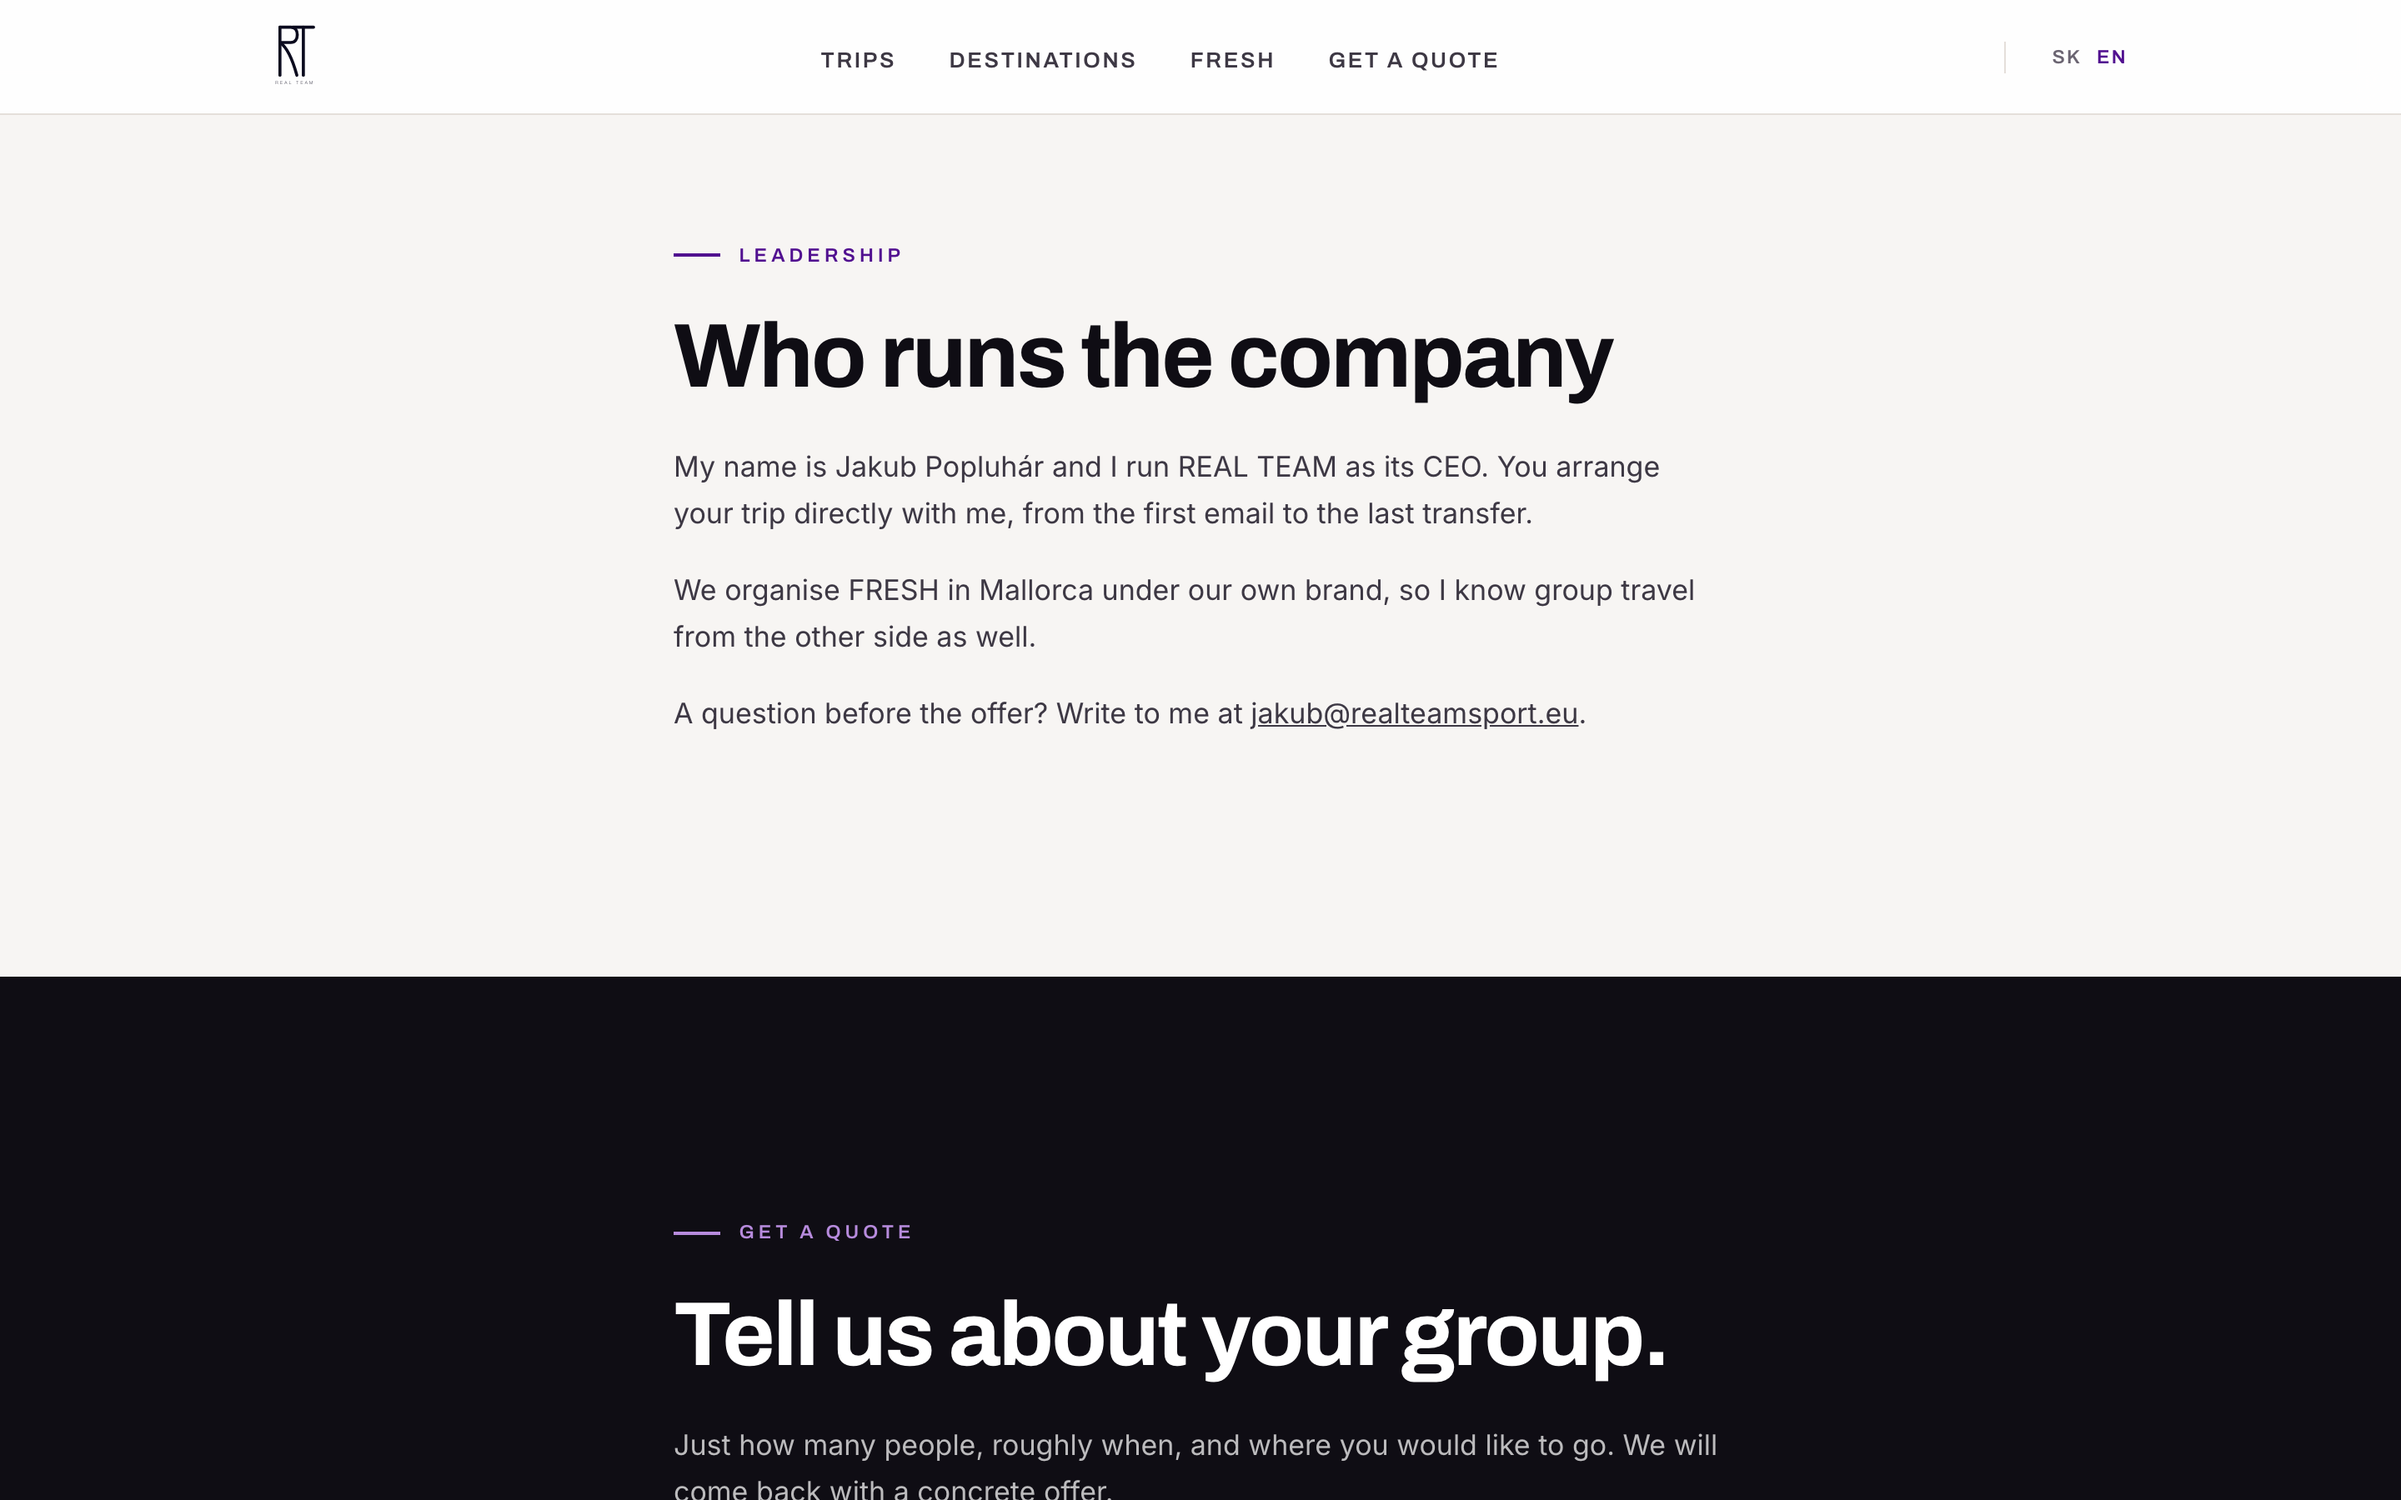
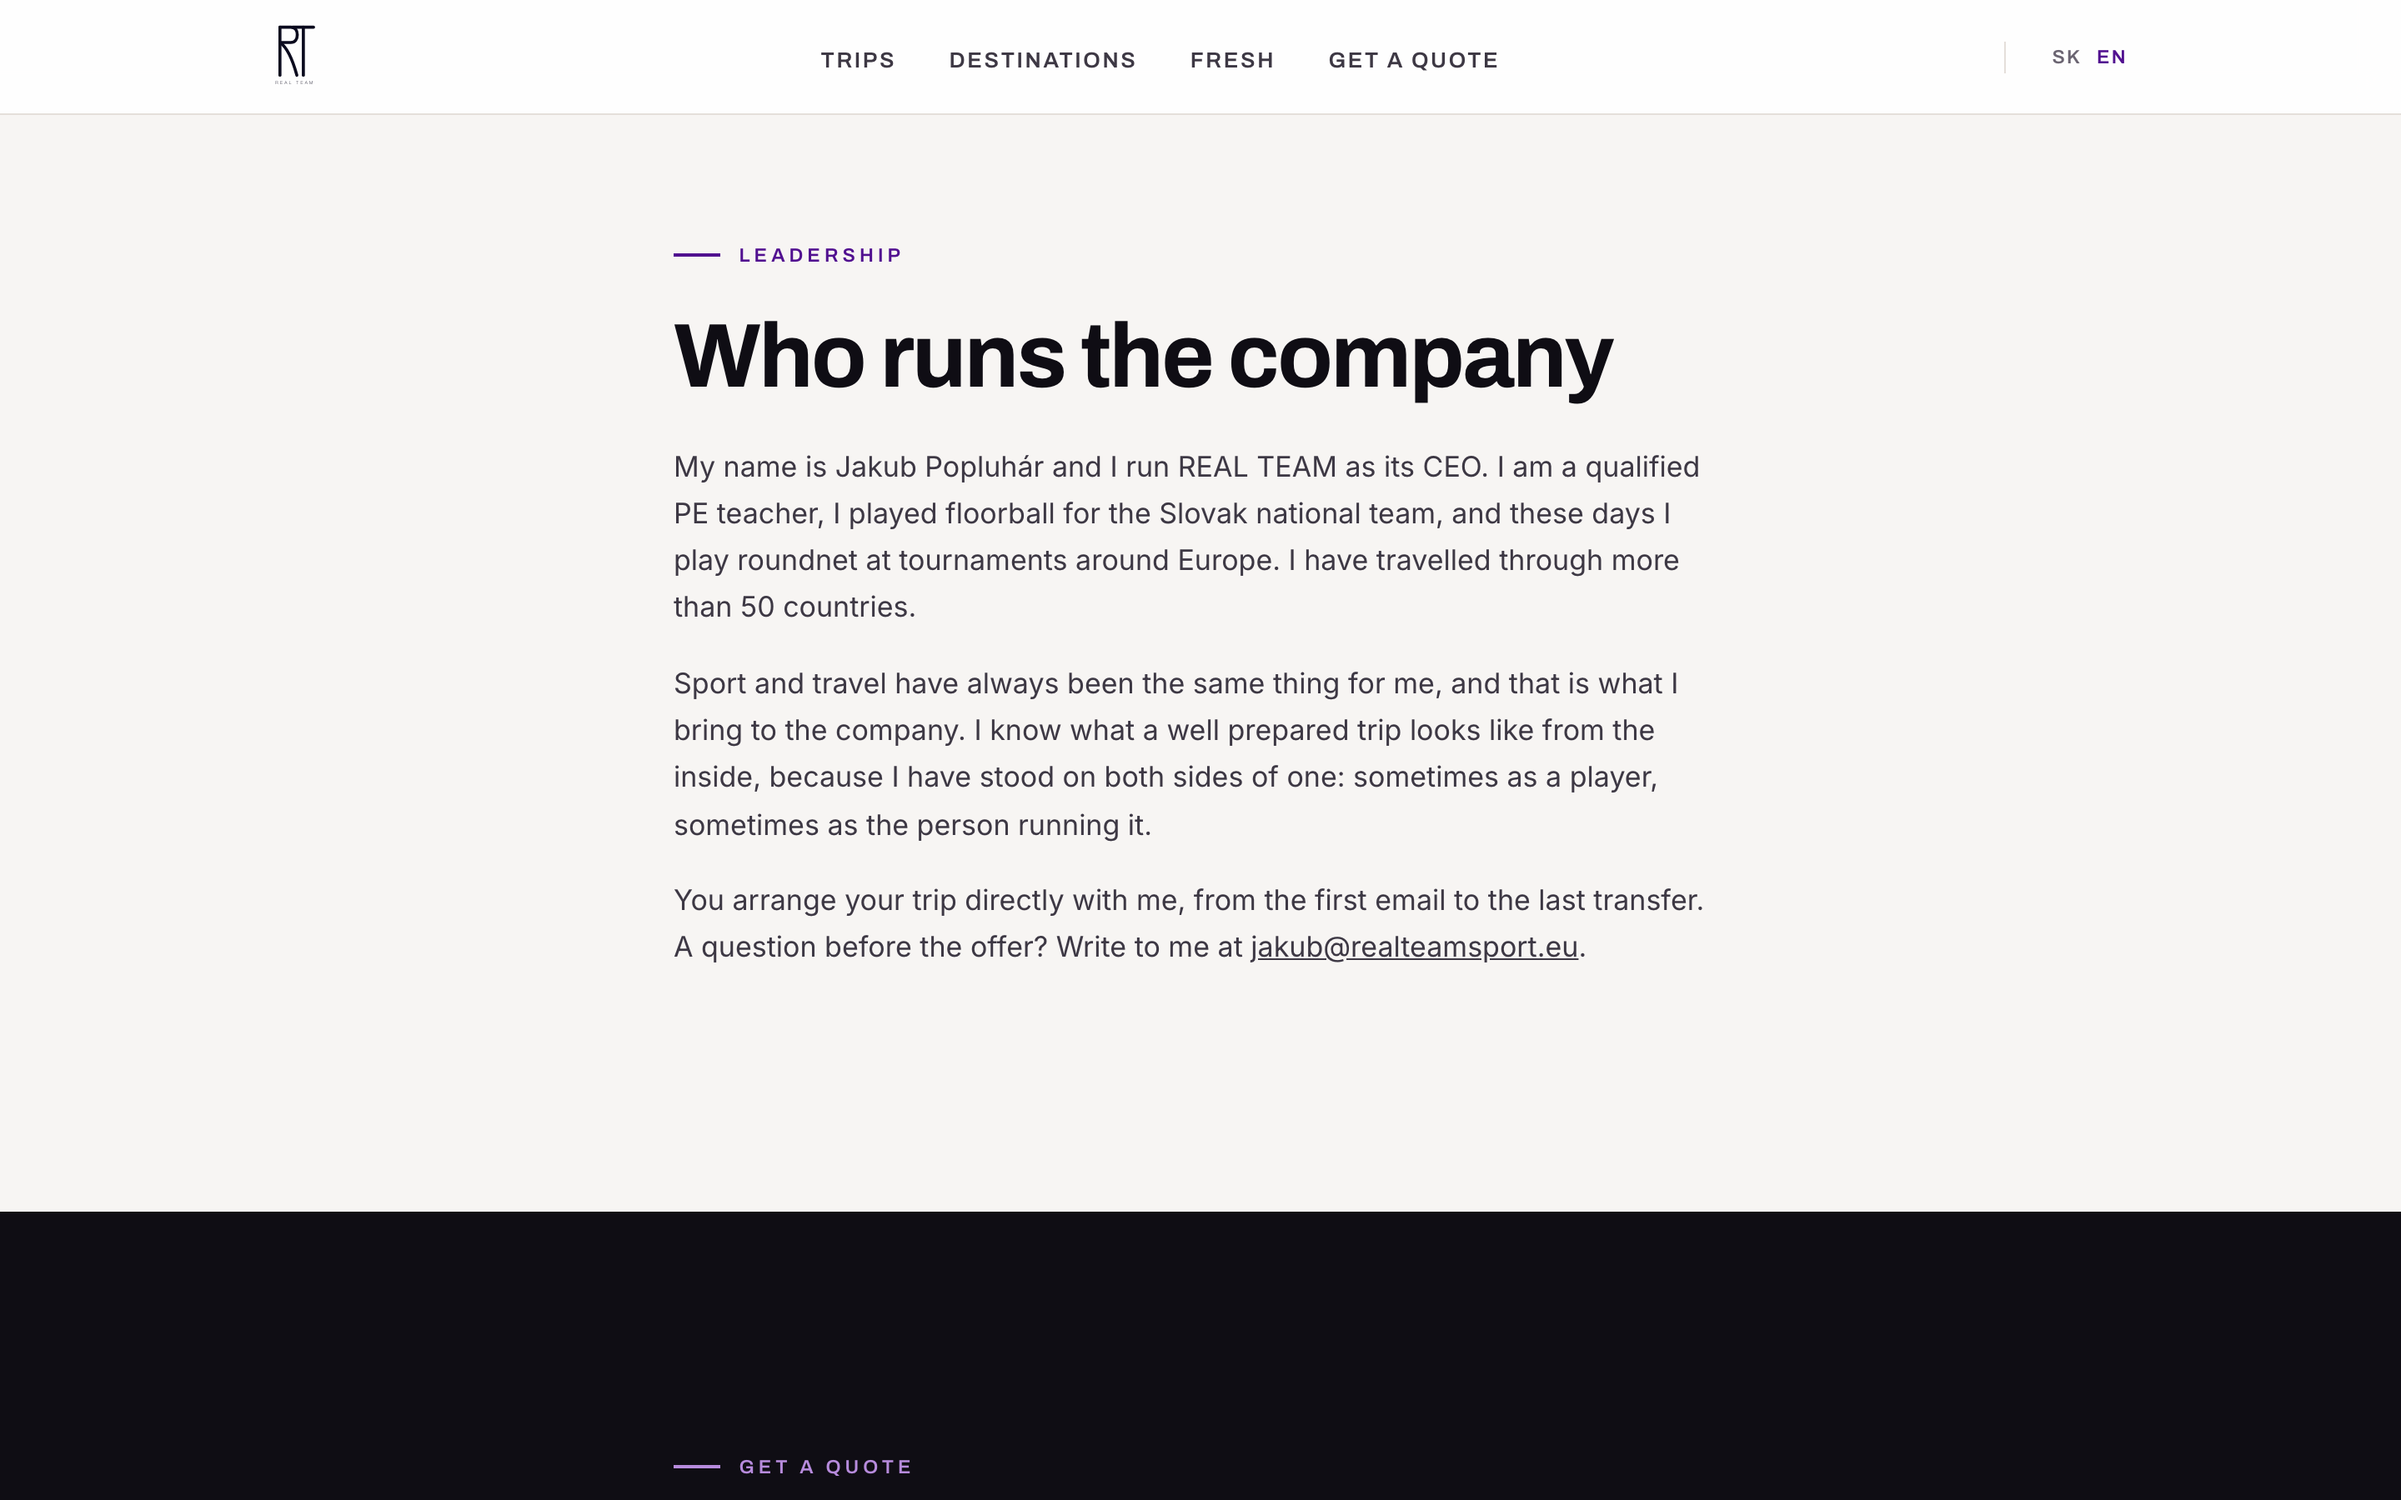
Replace the leadership bio with the real one
The first version said almost nothing. This one uses facts on record:
a qualified PE teacher (memory/personal.md, M.Ed.), a former Slovak
floorball international (memory/popluhar-family.md), a roundnet player
on the European tournament circuit (57 tournaments indexed in
memory/fitness.md), and more than 50 countries travelled, which is the
Commander's own figure. The Person schema carries the same short bio.

check-ai-tells.py: 0 findings on the Slovak home page, 8 advisory on the
English one, mostly pre-existing participle padding.

diff --git a/en/index.html b/en/index.html
@@ -68,7 +68,8 @@
       "name": "Jakub Popluhár",
       "jobTitle": "CEO",
       "email": "jakub@realteamsport.eu",
-      "worksFor": { "@id": "https://realteamsport.eu/#organization" }
+      "worksFor": { "@id": "https://realteamsport.eu/#organization" },
+      "description": "CEO of REAL TEAM, s.r.o. A qualified PE teacher, a former Slovak floorball international, and a roundnet player on the European tournament circuit."
     },
     {
       "@type": "WebSite",
@@ -323,9 +324,9 @@
     <div class="container container-narrow">
       <p class="label">Leadership</p>
       <h2>Who runs the company</h2>
-      <p>My name is Jakub Popluhár and I run REAL TEAM as its CEO. You arrange your trip directly with me, from the first email to the last transfer.</p>
-      <p>We organise FRESH in Mallorca under our own brand, so I know group travel from the other side as well.</p>
-      <p>A question before the offer? Write to me at <a href="mailto:jakub@realteamsport.eu">jakub@realteamsport.eu</a>.</p>
+      <p>My name is Jakub Popluhár and I run REAL TEAM as its CEO. I am a qualified PE teacher, I played floorball for the Slovak national team, and these days I play roundnet at tournaments around Europe. I have travelled through more than 50 countries.</p>
+      <p>Sport and travel have always been the same thing for me, and that is what I bring to the company. I know what a well prepared trip looks like from the inside, because I have stood on both sides of one: sometimes as a player, sometimes as the person running it.</p>
+      <p>You arrange your trip directly with me, from the first email to the last transfer. A question before the offer? Write to me at <a href="mailto:jakub@realteamsport.eu">jakub@realteamsport.eu</a>.</p>
     </div>
   </section>
 

diff --git a/index.html b/index.html
@@ -68,7 +68,8 @@
       "name": "Jakub Popluhár",
       "jobTitle": "konateľ",
       "email": "jakub@realteamsport.eu",
-      "worksFor": { "@id": "https://realteamsport.eu/#organization" }
+      "worksFor": { "@id": "https://realteamsport.eu/#organization" },
+      "description": "Konateľ REAL TEAM, s.r.o. Vyštudovaný učiteľ telesnej výchovy, bývalý reprezentant Slovenska vo florbale, hráč roundnetu na turnajoch po Európe."
     },
     {
       "@type": "WebSite",
@@ -323,9 +324,9 @@
     <div class="container container-narrow">
       <p class="label">Vedenie</p>
       <h2>Kto firmu vedie</h2>
-      <p>Volám sa Jakub Popluhár a REAL TEAM vediem ako konateľ. Vašu cestu vybavujete priamo so mnou, od prvého e-mailu až po posledný transfer.</p>
-      <p>FRESH na Malorke organizujeme pod vlastnou značkou, takže skupinové cesty poznám aj z druhej strany.</p>
-      <p>Otázka ešte pred ponukou? Napíšte mi na <a href="mailto:jakub@realteamsport.eu">jakub@realteamsport.eu</a>.</p>
+      <p>Volám sa Jakub Popluhár a REAL TEAM vediem ako konateľ. Som vyštudovaný učiteľ telesnej výchovy, za Slovensko som hral florbal v reprezentácii a roundnet dnes hrávam na turnajoch po Európe. Prešiel som vyše 50 krajín.</p>
+      <p>Šport a cestovanie u mňa idú spolu odjakživa a presne to do firmy prinášam. Viem, ako vyzerá dobre pripravený pobyt zvnútra, lebo som na ňom stál na oboch stranách: raz ako hráč, inokedy ako ten, kto ho organizuje.</p>
+      <p>Vašu cestu vybavujete priamo so mnou, od prvého e-mailu až po posledný transfer. Otázka ešte pred ponukou? Napíšte mi na <a href="mailto:jakub@realteamsport.eu">jakub@realteamsport.eu</a>.</p>
     </div>
   </section>
 

diff --git a/SITREP.md b/SITREP.md
@@ -8,7 +8,7 @@
 
 | Strang | Stand | Lage |
 |---|---|---|
-| `rt-sport-website` | 2026-08-03 09:56 · heute | SEO/GEO, Ponuka-Wortwahl, FR-Logo, Vedenie-Block. **Committet und auf `main` gepusht, aber weiterhin NICHT live** (Pages serviert `gh-pages`). Wartet auf SK-Korrektur und Pavol. |
+| `rt-sport-website` | 2026-08-03 10:04 · heute | SEO/GEO, Ponuka-Wortwahl, FR-Logo, Vedenie-Block. **Committet und auf `main` gepusht, aber weiterhin NICHT live** (Pages serviert `gh-pages`). Wartet auf SK-Korrektur und Pavol. |
 
 ---
 
@@ -74,6 +74,17 @@ zwei Aenderungen sind noch nicht einmal committet.
   plus `Person`-Schema. **Titel: konateľ / CEO, ausdruecklich NICHT founder** — der Commander hat
   die Firma uebernommen, nicht gegruendet. Absichtlich kurz, soll spaeter wachsen.
 - **Gepusht auf `main`.** Das veroeffentlicht nichts: Pages serviert weiter `gh-pages`.
+- **Bio im Vedenie-Block ersetzt (2026-08-03 10:04).** Die erste Fassung war dem Commander zu blass. Neue
+  Fassung aus belegten Fakten: vyštudovaný učiteľ telesnej výchovy (`memory/personal.md`, M.Ed.),
+  **bývalý reprezentant Slovenska vo florbale** (`memory/popluhar-family.md`), roundnet auf
+  Turnieren in Europa (57 indexierte Turniere in `memory/fitness.md`), **vyše 50 krajín** (Zahl
+  kommt vom Commander im Gespraech, nirgends abgelegt). `Person`-Schema traegt dieselbe Kurzbio.
+  `check-ai-tells.py`: SK-Startseite **0 Treffer**, EN 8 Advisory (Partizip-Fuellsel, groesstenteils
+  Altbestand).
+- **Eigener Pruef-Fehler, fuer die Zukunft:** auf Port 8899 lief noch ein Server aus
+  `builds/websites/future-roundnet`; der neue konnte nicht binden und ein Screenshot-Lauf ging gegen
+  die falsche Seite. **Vor jedem Preview-Lauf den Titel der ausgelieferten Seite pruefen**
+  (`curl -s localhost:8899 | grep -i '<title>'`), nicht nur den HTTP-Status.
 
 ## Aktueller Stand
 - **Quellcode:** `~/Projects/builds/websites/rt-sport`, Branch `main`.
@@ -125,4 +136,4 @@ zwei Aenderungen sind noch nicht einmal committet.
 - Ob die Seite ueberhaupt live gehen soll, oder vorerst lokal bleibt.
 
 ---
-*Letzte Aenderung: 2026-08-03 09:56*
+*Letzte Aenderung: 2026-08-03 10:04*
